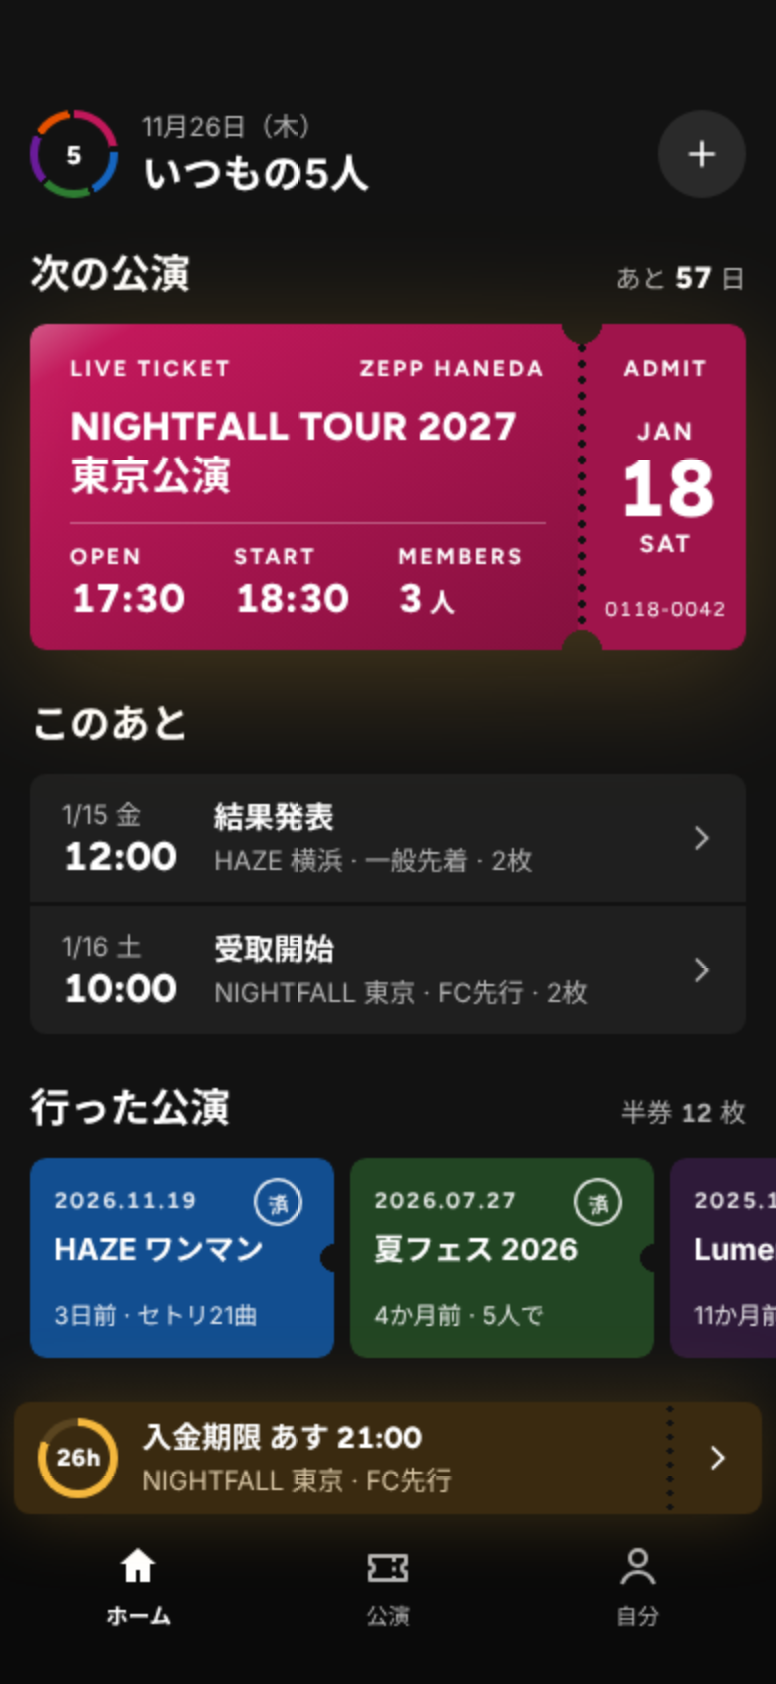
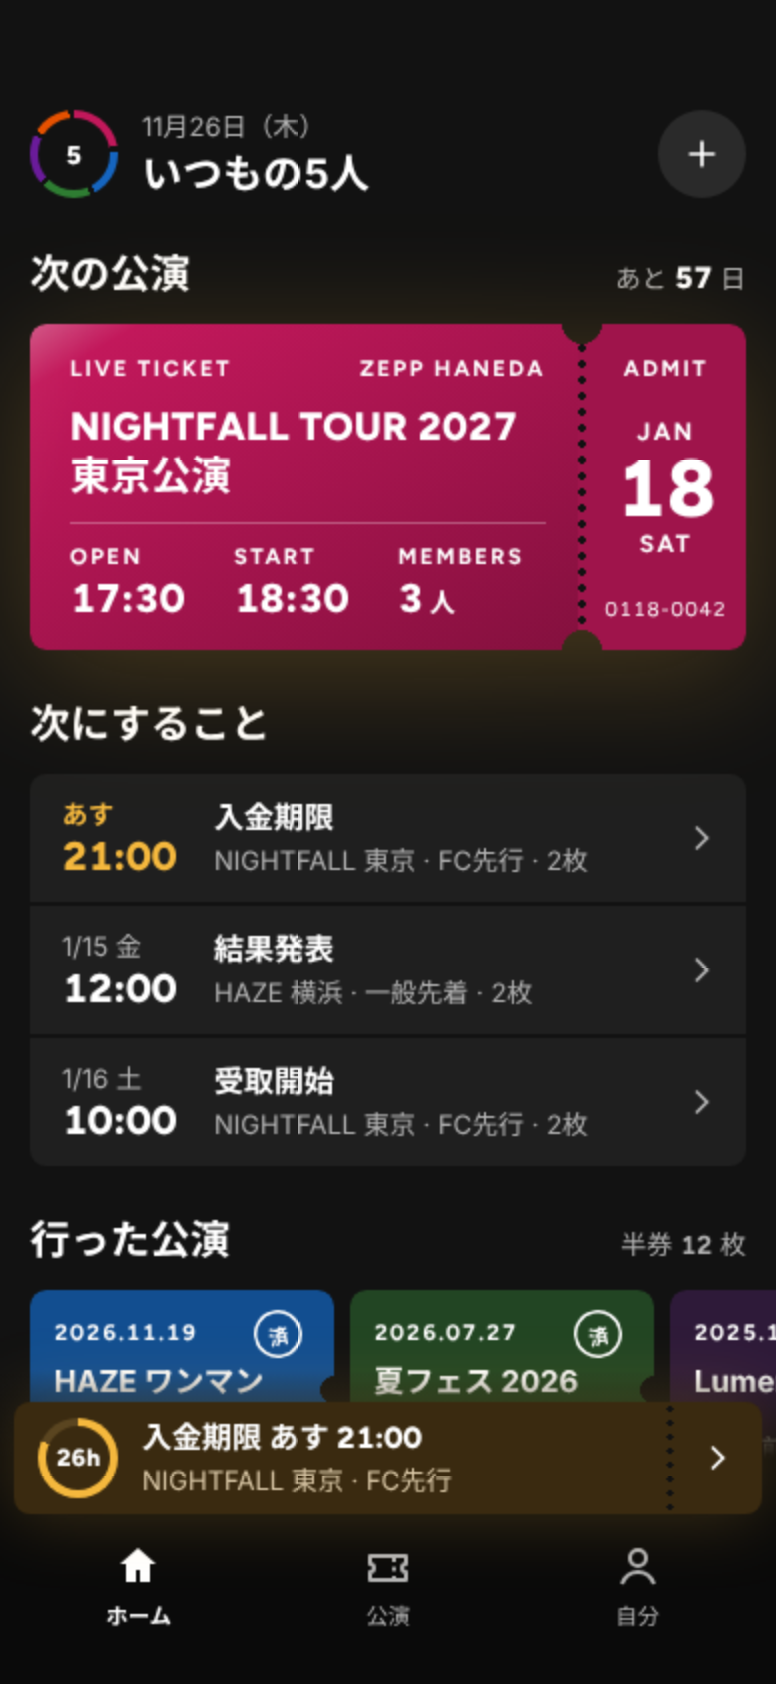
ホームの「次にすること」を要件どおりに戻し、半券の黒い文字を#000000にする
Devin Reviewの指摘2件を直す。
- ホームの一覧から帯の期限を除き2件に絞る決まりは、要件F-16と食い違うので、近い順にすべて出す形に戻す
- 行った公演の半券の黒い文字は#121212だと4.5:1に届かない色が出るので#000000にする

Claude-Session: https://claude.ai/code/session_01KJRikrCfopVw2AfQ2vKUD3

diff --git a/docs/ui-guidelines.md b/docs/ui-guidelines.md
@@ -134,13 +134,13 @@ Figtreeの数字は等幅（`font-feature-settings: "tnum"`）にし、カウン
 
 ### ホームの並び
 
-ホームは上から、グループ（仲間の輪・今日の日付・グループの名前・申込を足す「＋」）、次の公演の券、このあと、行った公演の棚の順にする。
-「このあと」には、下の帯に出した期限を除いた、次の2件を出す。帯と同じ期限を2回見せないため。
+ホームは上から、グループ（仲間の輪・今日の日付・グループの名前・申込を足す「＋」）、次の公演の券、次にすること、行った公演の棚の順にする。
+「次にすること」には、`docs/requirements/first-slice.md`のF-16のとおり、下の帯に出した一番近い期限も含めて、まだ来ていない期限を近い順にすべて出す。一番近い期限の行だけ、日時を差し色の文字にする。件数が多いと行った公演の棚は下にずれ、画面を送って見る。
 
 ### 余韻
 
 行った公演は、ホームの「行った公演」の棚に半券の形で並ぶ。券の色は、公演の日から日がたつほど、アーティストの色から余韻の薄れる先（`--fade-to`）へ近づく。
-半券の文字は、地の色との比が4.5:1以上なら白、下回れば#121212にする。色が薄れると、明るい表示では白が読めなくなるため。入場済みのはんこは日付の行の右に置き、公演名に重ねない。
+半券の文字は、地の色との比が4.5:1以上なら白、下回れば#000000にする。#121212では、白も#121212も4.5:1に届かない中間の色が出るため（12色を薄れる先へ混ぜて確かめた。#000000なら最も低くて4.59:1）。説明の行も同じ色にし、透かさない。色が薄れると、明るい表示では白が読めなくなるため。入場済みのはんこは日付の行の右に置き、公演名に重ねない。
 棚は横に送れるようにし、3枚目の端を画面の右に少し見せて、まだ続くことを示す。
 
 ### ペンライトの光
